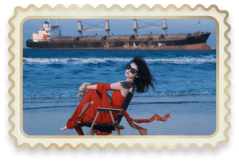
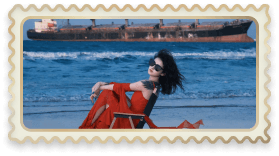
chore: 调整页面布局样式与资源图片
1. 更新多个页面的图片尺寸、位置参数
2. 修改首页卡片布局配置与装饰SVG尺寸
3. 调整启动页、商家推广页的样式与绘图参数
4. 注释掉无用的微信图标导入

diff --git a/src/pages/index/index.tsx b/src/pages/index/index.tsx
@@ -59,12 +59,12 @@ type LayoutPoint = { width: number; top: number; left: number };
 // 照片卡片在两种布局下的位置（设计稿 px，375 基准）
 // 状态 A：全屏散落；状态 B：在 325×321 厨房盒子内 2 列 3 行排列
 const ELEMENT_LAYOUTS: Record<string, { a: LayoutPoint; b: LayoutPoint }> = {
-  img1: { a: { width: 120, top: 275, left: 127.5 }, b: { width: 72, top: 100, left: 183 } },
-  img2: { a: { width: 82, top: 500, left: 146.5 }, b: { width: 54, top: 203, left: 98 } },
-  img3: { a: { width: 64, top: 450, left: 289 }, b: { width: 36, top: 182, left: 200 } },
-  img4: { a: { width: 150, top: 350, left: 112.5 }, b: { width: 80, top: 55, left: 81 } },
-  img5: { a: { width: 140, top: 475, left: 10 }, b: { width: 120, top: 150, left: 12 } },
-  img6: { a: { width: 116, top: 330, left: 244 }, b: { width: 92, top: 28, left: 166 } },
+  img1: { a: { width: 130, top: 275, left: 127 }, b: { width: 81, top: 95, left: 178 } },
+  img2: { a: { width: 71, top: 500, left: 160 }, b: { width: 45, top: 203, left: 98 } },
+  img3: { a: { width: 61, top: 450, left: 290 }, b: { width: 40, top: 182, left: 200 } },
+  img4: { a: { width: 150, top: 350, left: 120 }, b: { width: 80, top: 55, left: 85 } },
+  img5: { a: { width: 140, top: 475, left: 15 }, b: { width: 120, top: 150, left: 12 } },
+  img6: { a: { width: 116, top: 330, left: 250 }, b: { width: 92, top: 28, left: 166 } },
 };
 
 export default function Index() {
@@ -442,7 +442,7 @@ export default function Index() {
     for (let copy = 0; copy < copies; copy++) {
       for (let i = 0; i < list.length; i++) {
         result.push(
-          renderCarouselItem(list[i], `col1-c${copy}`, i, HomeLaceAcross, 175, 83, 155, 63, 10, 10),
+          renderCarouselItem(list[i], `col1-c${copy}`, i, HomeLaceAcross, 175, 93, 155, 73, 10, 10),
         );
       }
     }
@@ -461,9 +461,9 @@ export default function Index() {
             `col2-c${copy}`,
             i,
             HomeLaceVertical,
-            110,
+            108,
             131,
-            88,
+            86,
             109,
             11,
             11,

diff --git a/src/pages-sub/merchant-promoter/index.logic.ts b/src/pages-sub/merchant-promoter/index.logic.ts
@@ -278,19 +278,19 @@ export const useMerchantPromoterLogic = () => {
       // ===== 4. 装饰图片（绝对定位，相对 .icon-box 顶部） =====
       // .SplashImg1: 135×140, top:115px, left:108px
       const sp1 = await loadImage(require('@/assets/images/splash_img1.png'));
-      ctx.drawImage(sp1, 108, iconBoxTop + 115, 135, 140);
+      ctx.drawImage(sp1, 105, iconBoxTop + 115, 130, 134);
 
       // .SplashImg2: 75×93, top:210px, left:95px
       const sp2 = await loadImage(require('@/assets/images/splash_img2.png'));
-      ctx.drawImage(sp2, 95, iconBoxTop + 210, 75, 93);
+      ctx.drawImage(sp2, 100, iconBoxTop + 205, 84, 96);
 
       // .SplashImg3: 130×100, top:250px, left:152px
       const sp3 = await loadImage(require('@/assets/images/splash_img3.png'));
-      ctx.drawImage(sp3, 142, iconBoxTop + 285, 130, 100);
+      ctx.drawImage(sp3, 142, iconBoxTop + 290, 132, 96);
 
       // ===== 5. 二维码（绝对定位，相对 .icon-box 顶部，top:375px） =====
       const qrImg = await loadImage(qrCodeUrl);
-      const qrSize = 205;
+      const qrSize = 235;
       const qrBorderWidth = 15;
       const qrBorderRadius = 24;
       const qrX = (designWidth - qrSize) / 2;

diff --git a/src/pages-sub/merchant-promoter/index.scss b/src/pages-sub/merchant-promoter/index.scss
@@ -167,27 +167,27 @@
   }
 
   .SplashImg1 {
-    width: 135px;
-    height: 140px;
+    width: 130px;
+    height: 134px;
     position: absolute;
-    top: 115px;
-    left: 108px;
+    top: 105px;
+    left: 95px;
   }
 
   .SplashImg2 {
-    width: 75px;
-    height: 93px;
+    width: 84px;
+    height: 96px;
     position: absolute;
-    top: 210px;
+    top: 200px;
     left: 95px;
   }
 
   .SplashImg3 {
-    width: 130px;
-    height: 100px;
+    width: 132px;
+    height: 96px;
     position: absolute;
-    top: 255px;
-    left: 152px;
+    top: 275px;
+    left: 150px;
   }
 
   .icon-box {

diff --git a/src/pages/splash/index.scss b/src/pages/splash/index.scss
@@ -101,7 +101,7 @@
 
     &--1 {
       left: 50%;
-      width: 187px;
+      width: 184px;
       transform: translateX(-50%);
 
       &.splash-photo--s1 {
@@ -113,11 +113,11 @@
     }
 
     &--2 {
-      left: 30%;
-      width: 97px;
+      left: 26%;
+      width: 115px;
 
       &.splash-photo--s1 {
-        top: calc(35% + 25px);
+        top: calc(34% + 25px);
       }
       &.splash-photo--s2 {
         top: 35%;
@@ -126,7 +126,7 @@
 
     &--3 {
       left: 50%;
-      width: 179px;
+      width: 188px;
       transform: translateX(-50%);
 
       &.splash-photo--s1 {

diff --git a/src/pages-sub/merchant-promoter/index.tsx b/src/pages-sub/merchant-promoter/index.tsx
@@ -4,7 +4,7 @@ import BasePage from '@/components/base-page';
 import iconMerchantAdd from '@/assets/svgs/icon_promotion_logo.svg';
 import iconRadio from '@/assets/svgs/icon_radio.svg';
 import iconRadioActive from '@/assets/svgs/icon_radio_active.svg';
-import iconWxLogo from '@/assets/svgs/icon_wx_logo.svg';
+// import iconWxLogo from '@/assets/svgs/icon_wx_logo.svg';
 import iconSuccess from '@/assets/svgs/icon_success.svg';
 import iconCode from '@/assets/images/kf_code.png';
 import SplashBg from '@/assets/images/splash_bg.png';
